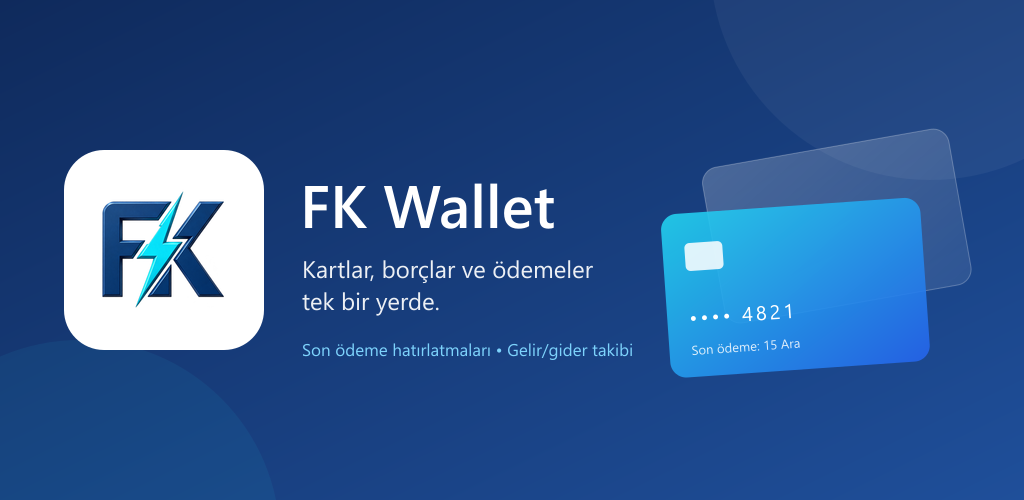
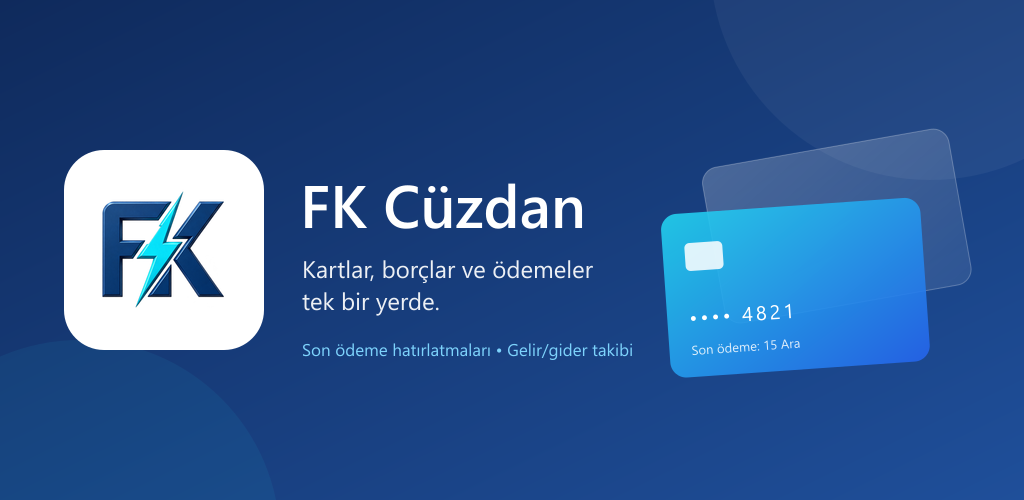
feat: rename the app to FK Cüzdan and add an animated launch screen
- Animated splash: logo pulse, glow and wordmark before the app appears
- App name, Turkish store listing, privacy policy and in-app labels use
  "FK Cüzdan"; English listing stays "FK Wallet"
- Turkish and English Play feature graphics; promo video kept out of git

Changed region(s): [[0.375, 0.36, 0.5938, 0.48]]

diff --git a/src/components/AnimatedSplash.tsx b/src/components/AnimatedSplash.tsx
@@ -1,0 +1,121 @@
+import { useRef } from 'react';
+import { Animated, Easing, StyleSheet, Text, View } from 'react-native';
+import * as SplashScreen from 'expo-splash-screen';
+
+import { colors } from '../theme';
+
+const LOGO = require('../../assets/images/fk-logo.png');
+/** app.json'daki expo-splash-screen "imageWidth" değeriyle aynı olmalı (geçiş kesintisiz görünsün). */
+const LOGO_SIZE = 220;
+
+interface Props {
+  onFinish: () => void;
+}
+
+/**
+ * Yerel açılış ekranının üstüne aynı logoyla açılır, ardından logo hafifçe "nefes alır",
+ * "FK Cüzdan" yazısı belirir ve ekran büyüyerek kaybolup uygulamayı gösterir.
+ */
+export function AnimatedSplash({ onFinish }: Props) {
+  const logoScale = useRef(new Animated.Value(1)).current;
+  const glow = useRef(new Animated.Value(0)).current;
+  const text = useRef(new Animated.Value(0)).current;
+  const exit = useRef(new Animated.Value(0)).current;
+  const started = useRef(false);
+
+  function start() {
+    if (started.current) return;
+    started.current = true;
+    SplashScreen.hideAsync().catch(() => {});
+
+    Animated.sequence([
+      Animated.parallel([
+        Animated.sequence([
+          Animated.timing(logoScale, { toValue: 0.88, duration: 180, easing: Easing.out(Easing.quad), useNativeDriver: true }),
+          Animated.spring(logoScale, { toValue: 1.06, friction: 4, tension: 120, useNativeDriver: true }),
+        ]),
+        Animated.sequence([
+          Animated.delay(150),
+          Animated.timing(glow, { toValue: 1, duration: 260, useNativeDriver: true }),
+          Animated.timing(glow, { toValue: 0, duration: 420, useNativeDriver: true }),
+        ]),
+        Animated.sequence([
+          Animated.delay(260),
+          Animated.timing(text, { toValue: 1, duration: 380, easing: Easing.out(Easing.cubic), useNativeDriver: true }),
+        ]),
+      ]),
+      Animated.delay(320),
+      Animated.timing(exit, { toValue: 1, duration: 360, easing: Easing.in(Easing.cubic), useNativeDriver: true }),
+    ]).start(() => onFinish());
+  }
+
+  const containerStyle = {
+    opacity: exit.interpolate({ inputRange: [0, 1], outputRange: [1, 0] }),
+  };
+  const contentStyle = {
+    transform: [{ scale: exit.interpolate({ inputRange: [0, 1], outputRange: [1, 1.35] }) }],
+  };
+
+  return (
+    <Animated.View style={[styles.container, containerStyle]} onLayout={start} pointerEvents="none">
+      <Animated.View style={[styles.content, contentStyle]}>
+        <View style={styles.logoWrap}>
+          <Animated.View
+            style={[
+              styles.glow,
+              {
+                opacity: glow.interpolate({ inputRange: [0, 1], outputRange: [0, 0.55] }),
+                transform: [{ scale: glow.interpolate({ inputRange: [0, 1], outputRange: [0.6, 1.25] }) }],
+              },
+            ]}
+          />
+          <Animated.Image source={LOGO} resizeMode="contain" style={[styles.logo, { transform: [{ scale: logoScale }] }]} />
+        </View>
+        <Animated.View
+          style={[
+            styles.textWrap,
+            {
+              opacity: text,
+              transform: [{ translateY: text.interpolate({ inputRange: [0, 1], outputRange: [14, 0] }) }],
+            },
+          ]}
+        >
+          <Text style={styles.title}>
+            FK <Text style={styles.titleAccent}>Cüzdan</Text>
+          </Text>
+          <Text style={styles.subtitle}>Kartların, borçların, bütçen</Text>
+        </Animated.View>
+      </Animated.View>
+    </Animated.View>
+  );
+}
+
+const styles = StyleSheet.create({
+  container: {
+    position: 'absolute',
+    top: 0,
+    left: 0,
+    right: 0,
+    bottom: 0,
+    backgroundColor: '#ffffff',
+    alignItems: 'center',
+    justifyContent: 'center',
+    zIndex: 1000,
+    elevation: 1000,
+  },
+  content: { alignItems: 'center', justifyContent: 'center' },
+  logoWrap: { width: LOGO_SIZE, height: LOGO_SIZE, alignItems: 'center', justifyContent: 'center' },
+  glow: {
+    position: 'absolute',
+    width: LOGO_SIZE,
+    height: LOGO_SIZE,
+    borderRadius: LOGO_SIZE / 2,
+    backgroundColor: '#22d3ee',
+  },
+  logo: { width: LOGO_SIZE, height: LOGO_SIZE },
+  // Logo ekranın tam ortasında kalsın diye yazı akışa girmeden altına yerleştirilir.
+  textWrap: { position: 'absolute', top: LOGO_SIZE + 12, alignItems: 'center', width: 320 },
+  title: { fontSize: 30, fontWeight: '800', color: colors.navy, letterSpacing: 0.5 },
+  titleAccent: { color: '#0ea5e9' },
+  subtitle: { marginTop: 4, fontSize: 14, color: colors.slate500 },
+});

diff --git a/app/_layout.tsx b/app/_layout.tsx
@@ -1,8 +1,9 @@
 import { Stack } from 'expo-router';
-import { useEffect, useRef } from 'react';
+import { useEffect, useRef, useState } from 'react';
 import { AppState } from 'react-native';
 import * as SplashScreen from 'expo-splash-screen';
 
+import { AnimatedSplash } from '@/src/components/AnimatedSplash';
 import { useAuthStore } from '@/src/store/useAuthStore';
 import { useCardsStore } from '@/src/store/useCardsStore';
 import { useAccountsStore } from '@/src/store/useAccountsStore';
@@ -34,11 +35,8 @@ export default function RootLayout() {
     init();
   }, [init]);
 
-  useEffect(() => {
-    if (!isInitializing) {
-      SplashScreen.hideAsync().catch(() => {});
-    }
-  }, [isInitializing]);
+  // Yerel açılış ekranını AnimatedSplash, kendi logosu çizildiği anda kapatır.
+  const [splashDone, setSplashDone] = useState(false);
 
   useAppForegroundReschedule(session != null);
 
@@ -54,14 +52,17 @@ export default function RootLayout() {
   }
 
   return (
-    <Stack>
-      <Stack.Protected guard={session != null}>
-        <Stack.Screen name="(app)" options={{ headerShown: false }} />
-      </Stack.Protected>
-      <Stack.Protected guard={session == null}>
-        <Stack.Screen name="(auth)" options={{ headerShown: false }} />
-      </Stack.Protected>
-    </Stack>
+    <>
+      <Stack>
+        <Stack.Protected guard={session != null}>
+          <Stack.Screen name="(app)" options={{ headerShown: false }} />
+        </Stack.Protected>
+        <Stack.Protected guard={session == null}>
+          <Stack.Screen name="(auth)" options={{ headerShown: false }} />
+        </Stack.Protected>
+      </Stack>
+      {!splashDone ? <AnimatedSplash onFinish={() => setSplashDone(true)} /> : null}
+    </>
   );
 }
 

diff --git a/app/(app)/paywall.tsx b/app/(app)/paywall.tsx
@@ -101,7 +101,7 @@ export default function PaywallScreen() {
     <ScrollView style={styles.flex} contentContainerStyle={styles.container}>
       <View style={styles.hero}>
         <View style={styles.heroIcon}><Ionicons name="diamond-outline" size={30} color={colors.white} /></View>
-        <Text style={styles.heroTitle}>FK Wallet Premium</Text>
+        <Text style={styles.heroTitle}>FK Cüzdan Premium</Text>
         <Text style={styles.heroText}>
           {access.status === 'expired'
             ? `${TRIAL_DAYS} günlük ücretsiz deneme süren doldu. Verilerin güvende; görüntülemeye devam edebilirsin. Yeni kayıt eklemek ve düzenlemek için Premium’a geç.`

diff --git a/app/(app)/(tabs)/settings.tsx b/app/(app)/(tabs)/settings.tsx
@@ -13,7 +13,7 @@ import { colors, spacing } from '@/src/theme';
 const LEAD_DAY_OPTIONS = [1, 2, 3, 5, 7];
 
 function getDisplayName(value: unknown) {
-  return typeof value === 'string' && value.trim() ? value.trim() : 'FK Wallet Kullanıcısı';
+  return typeof value === 'string' && value.trim() ? value.trim() : 'FK Cüzdan Kullanıcısı';
 }
 
 export default function SettingsScreen() {

diff --git a/store-assets/MAGAZA_ACIKLAMASI.md b/store-assets/MAGAZA_ACIKLAMASI.md
@@ -1,8 +1,8 @@
-# FK Wallet – Google Play mağaza metinleri
+# FK Cüzdan – Google Play mağaza metinleri
 
 ## Uygulama adı (en fazla 30 karakter)
 
-FK Wallet: Kart ve Borç Takibi
+FK Cüzdan: Kart ve Borç Takibi
 
 ## Kısa açıklama (en fazla 80 karakter)
 
@@ -10,7 +10,7 @@ Kart borçlarını, son ödeme günlerini ve bütçeni tek yerden takip et.
 
 ## Tam açıklama (en fazla 4000 karakter)
 
-FK Wallet, kredi kartlarını, banka hesaplarını, borçlarını ve aylık bütçeni tek bir uygulamada toplayan sade bir kişisel finans takip uygulamasıdır. Hangi kartın ne zaman kesildiğini, son ödeme gününün ne zaman geldiğini ve bu ay ne kadar harcadığını bir bakışta gör.
+FK Cüzdan, kredi kartlarını, banka hesaplarını, borçlarını ve aylık bütçeni tek bir uygulamada toplayan sade bir kişisel finans takip uygulamasıdır. Hangi kartın ne zaman kesildiğini, son ödeme gününün ne zaman geldiğini ve bu ay ne kadar harcadığını bir bakışta gör.
 
 KREDİ KARTLARIN TEK EKRANDA
 • Birden fazla kredi kartını ekle; her kart için hesap kesim ve son ödeme gününü belirle
@@ -44,10 +44,11 @@ SADE VE ANLAŞILIR
 • Hızlı ekleme butonuyla saniyeler içinde kayıt gir
 
 GİZLİLİK VE GÜVENLİK
-• FK Wallet hiçbir bankaya bağlanmaz; tüm bilgiler senin girdiğin kadardır
-• Gerçek kart numarası veya CVV istenmez, saklanmaz; kartı yalnızca son 4 hanesiyle ayırt edersin• Verilerin hesabına özel olarak saklanır ve yalnızca sen erişebilirsin
+• FK Cüzdan hiçbir bankaya bağlanmaz; tüm bilgiler senin girdiğin kadardır
+• Gerçek kart numarası veya CVV istenmez, saklanmaz; kartı yalnızca son 4 hanesiyle ayırt edersin
+• Verilerin hesabına özel olarak saklanır ve yalnızca sen erişebilirsin
 • Verilerin reklam amacıyla kullanılmaz, üçüncü taraflarla paylaşılmaz
 
-FK Wallet bir bankacılık uygulaması değildir; ödeme yapmaz, para transferi yapmaz. Bütçeni ve ödeme takvimini düzenli tutman için tasarlanmış bir takip aracıdır.
+FK Cüzdan bir bankacılık uygulaması değildir; ödeme yapmaz, para transferi yapmaz. Bütçeni ve ödeme takvimini düzenli tutman için tasarlanmış bir takip aracıdır.
 
 Görüş ve önerilerin için: karatasoglufirat@gmail.com

diff --git a/PRIVACY_POLICY.md b/PRIVACY_POLICY.md
@@ -1,8 +1,8 @@
-# FK Wallet Gizlilik Politikası
+# FK Cüzdan Gizlilik Politikası
 
 Son güncelleme: 18 Kasım 2026
 
-FK Wallet ("uygulama"), kullanıcıların kredi kartı, banka hesabı, kişisel borç, gelir/gider ve planlanan ödemelerini kişisel olarak takip etmesi için tasarlanmış bir mobil uygulamadır.
+FK Cüzdan (İngilizce adıyla FK Wallet; "uygulama"), kullanıcıların kredi kartı, banka hesabı, kişisel borç, gelir/gider ve planlanan ödemelerini kişisel olarak takip etmesi için tasarlanmış bir mobil uygulamadır.
 
 ## Topladığımız Veriler
 
